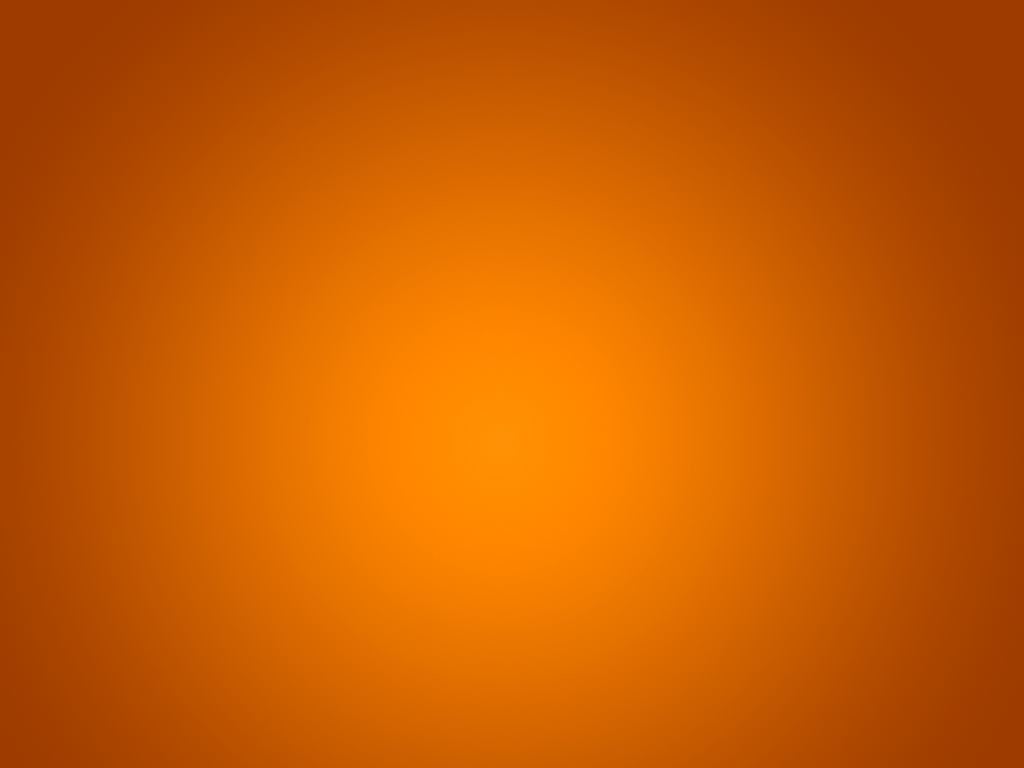
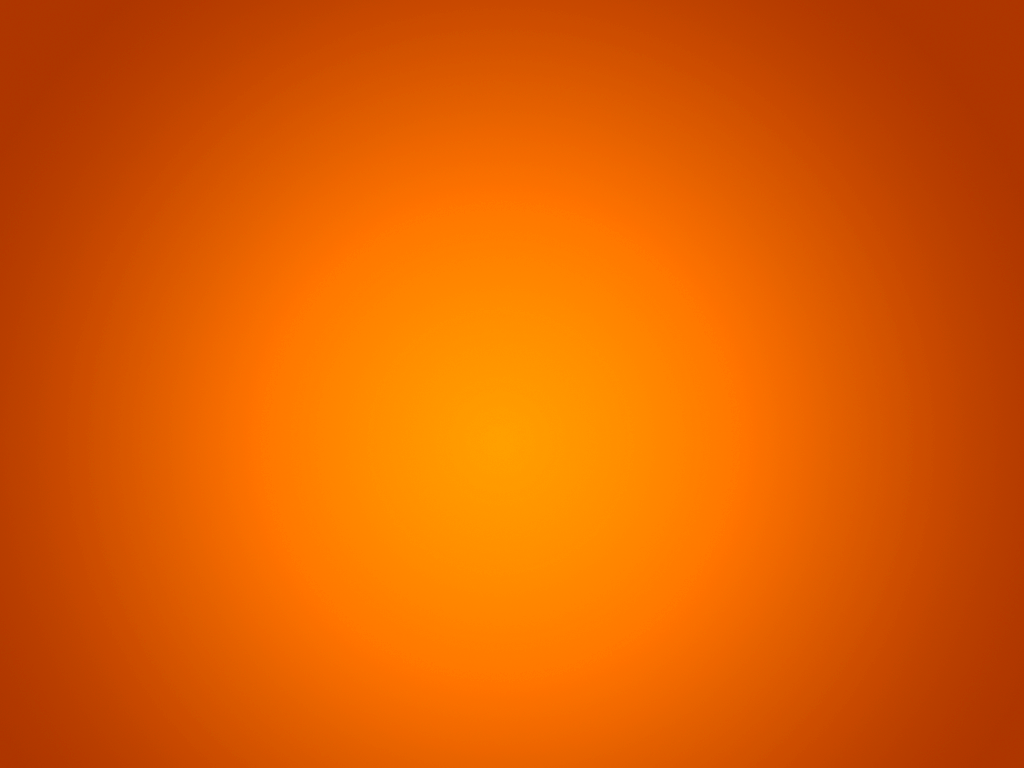
Sped up pre-burst opacity Implemented baked backgrounds for other colour Randomized shard sizes with an organic factor

diff --git a/game.html b/game.html
@@ -33,19 +33,18 @@
 <canvas id="gcell-sprite"		width="240"		height="240"	style="display: none"></canvas>
 
 
-<!-- these layers "peel away" as colours change -->
+<!-- image data for coloured backgrounds -->
 <div style="display: none">
-<img id="bgs-0" src="img/bg-blu-sm.png" />
-<div id="bg-0" class="bg-layer" style="z-index: 70; background:url('img/bg-red.png')"></div>
-<div id="bg-1" class="bg-layer" style="z-index: 60; background:url('img/bg-org.png')"></div>
-<div id="bg-2" class="bg-layer" style="z-index: 50; background:url('img/bg-yel.png')"></div>
-<div id="bg-3" class="bg-layer" style="z-index: 40; background:url('img/bg-grn.png')"></div>
-<div id="bg-4" class="bg-layer" style="z-index: 30; background:url('img/bg-blu.png')"></div>
-<div id="bg-5" class="bg-layer" style="z-index: 20; background:url('img/bg-ind.png')"></div>
-<div id="bg-6" class="bg-layer" style="z-index: 10; background:url('img/bg-vio.png')"></div>
+	<img id="bg-0" src="img/bg-red.jpg" />
+	<img id="bg-1" src="img/bg-org.jpg" />
+	<img id="bg-2" src="img/bg-yel.jpg" />
+	<img id="bg-3" src="img/bg-grn.jpg" />
+	<img id="bg-4" src="img/bg-blu.jpg" />
+	<img id="bg-5" src="img/bg-ind.jpg" />
+	<img id="bg-6" src="img/bg-vio.jpg" />
 </div>
-a
-< style="position: absolute; z-index: 2000" href="game.html">RELOAD</a>
+
+<a style="position: absolute; z-index: 2000" href="game.html">RELOAD</a>
 <a style="position: absolute; z-index: 2000; left: 100px" href="javascript:addBullet(1)">BUL++ (GF)</a>
 <a style="position: absolute; z-index: 2000; left: 200px" href="javascript:addBullet()">BUL++ (PF)</a>
 
@@ -252,15 +251,6 @@ function nextBG()
 		halt() ;
 		return ;
 	}
-	
-	// Retrieve background element and make it disappear!
-	var el = document.getElementById('bg-'+_bgIdx) ;
-		
-    el.style.opacity = 0 ;
-
-    window.setTimeout(function(){
-    	el.parentElement.removeChild(el) ;
-    }, 5000)
     
     _bgIdx++ ;
 }
@@ -311,7 +301,7 @@ function doClick(ev)
 	window.setTimeout(function(){
 		t.rel = 'exp' ;
 		t.parentNode.removeChild(t) ;
-	},100) ;
+	},50) ;
 
 	// Load a 'rear' bullet
 	_HMQ.push('H') ;
@@ -444,7 +434,7 @@ function doGCycle()
 	clearGCanvas() ;
 
 	// Paint background onto canvas
-	var img = document.getElementById('bgs-0');
+	var img = document.getElementById('bg-'+_bgIdx);
 
 	_ctxG.drawImage(img, 0, 0, 256, 192, 0, 0, 1024, 768) ;
 
@@ -654,7 +644,7 @@ function spawnBubble()
 		window.setTimeout(function(){
 			cnv.style.display = 'none' ;
 			cnv.parentNode.removeChild(cnv) ;
-		},100) ;
+		},50) ;
 
 		_HMQ.push('M') ;
 
@@ -794,7 +784,11 @@ function drawShard(ctx, x, y, i)
 	w = x2 - x1;
  
  	// Copy pixel block from shard sprite (scale up by 2x for pixellated FX)
-	ctx.drawImage(_cnvSS, x1, 0, w, C_SHDRAD * 2, x, y, w * 2, C_SHDRAD * 4) ;
+ 	var sOrg = randomInt(70,130) / 100 ;
+ 	var dWid = Math.floor(w * 2 * sOrg) ;
+ 	var dHgt = Math.floor(C_SHDRAD * 4 * sOrg) ;
+
+	ctx.drawImage(_cnvSS, x1, 0, w, C_SHDRAD * 2, x, y, dWid, dHgt) ;
 }
 
 function shardRegGC()
@@ -1148,17 +1142,6 @@ function randomInt(min, max)
 	overflow: 		hidden ;
 
 	background:		black ;
-}
-
-.bg-layer
-{
-	background-position: center ;
-	position: absolute ;
-	opacity: 1.0 ;
-	width: 1024px ;
-	height: 768px ;
-
-	-webkit-transition: opacity 6s;
 }
 
 #shard-container, #bubble-container, #geom-1, #geom-2
